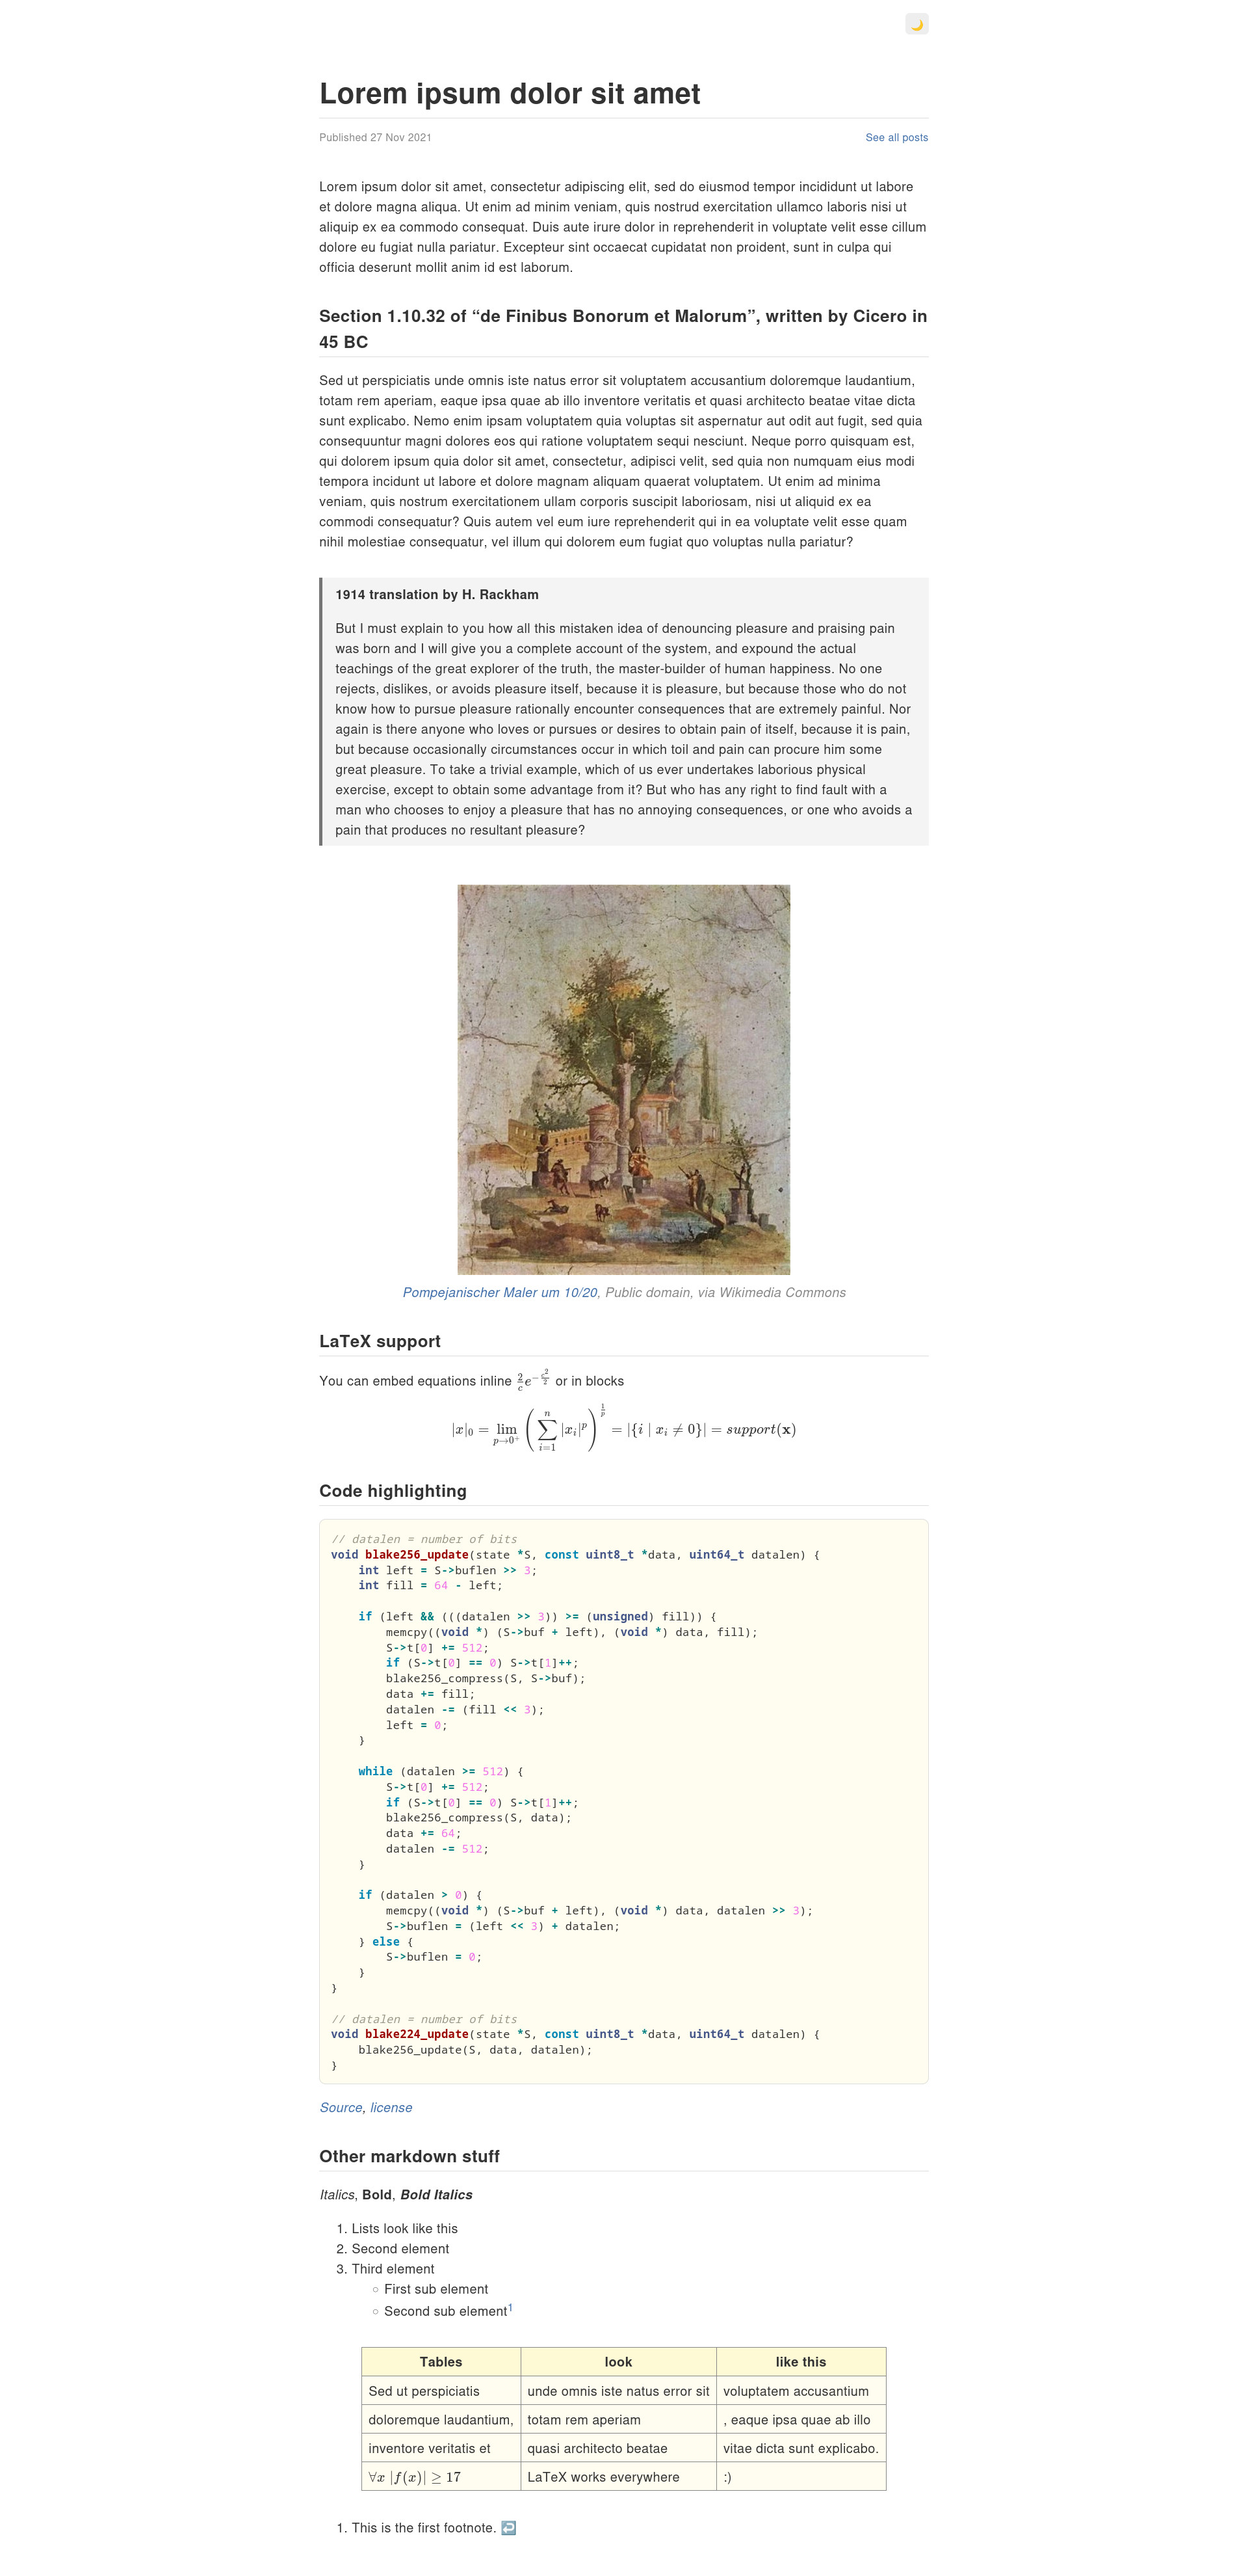
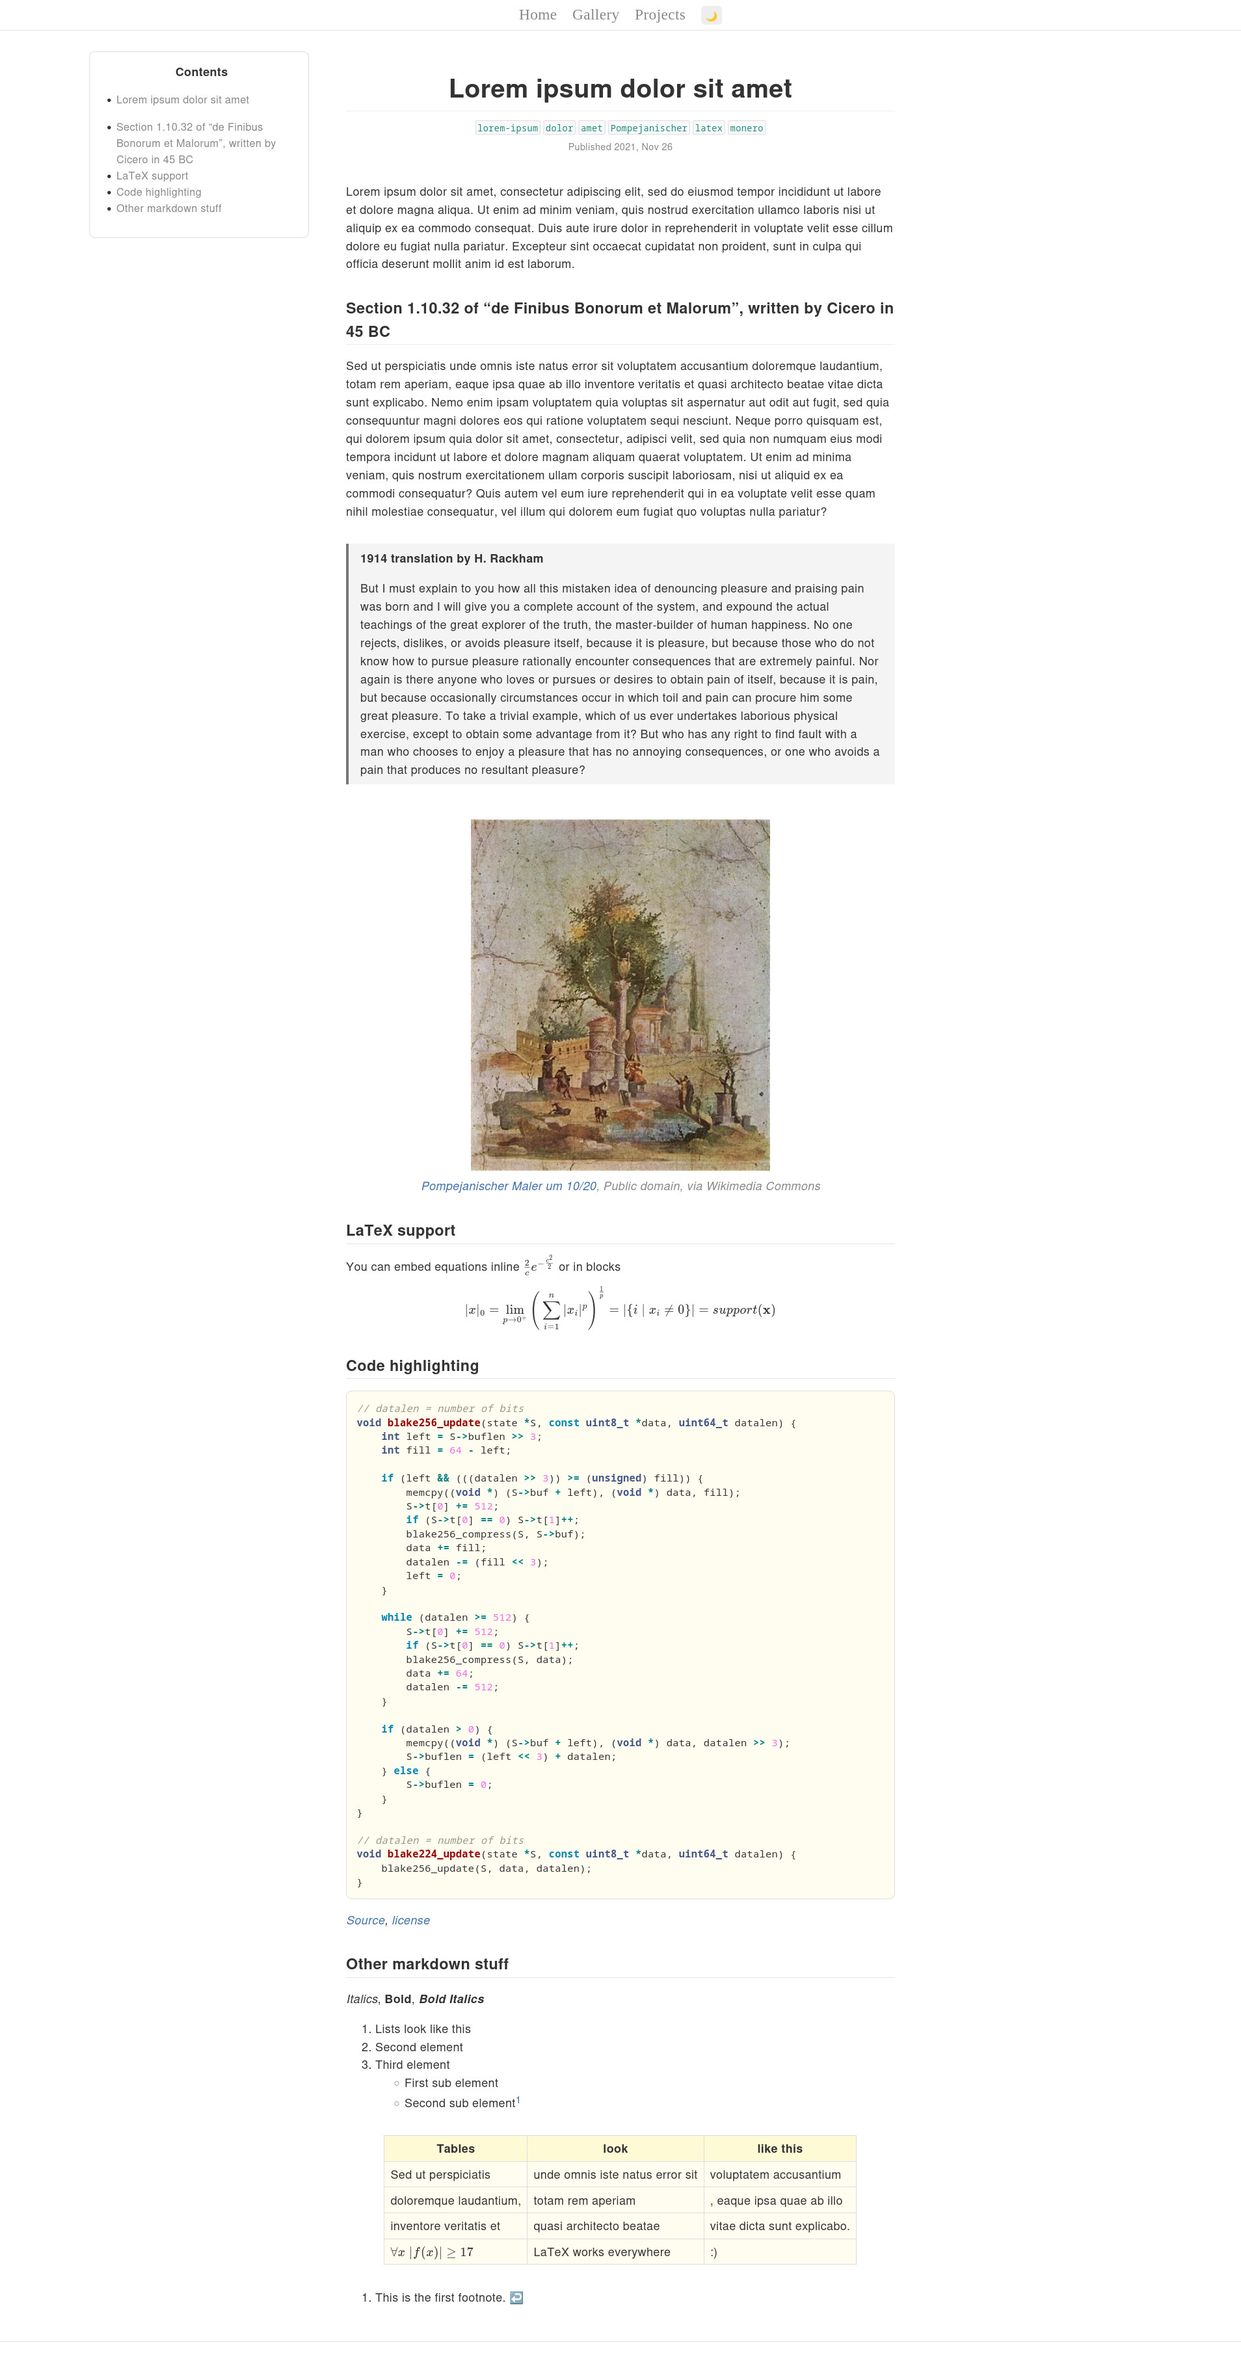
bump version, update images

diff --git a/_layouts/post.html b/_layouts/post.html
@@ -10,11 +10,11 @@ layout: default
 <div class="wrapper">
   <h1 class="page-title">{{ page.title }}</h1>
   <div class="page-details-inline">
-    <!-- <div class="page-tags">
+    <div class="page-tags">
       {% for tag in page.tags %}
         <code class="page-tag">{{ tag }}</code>
       {% endfor %}
-    </div> -->
+    </div>
     <div class="page-date">
       <div>
         Published
@@ -44,3 +44,4 @@ layout: default
   </main>
 </div>
 
+{% include navbar-bottom.html %}

diff --git a/_sass/malis/_layout.scss b/_sass/malis/_layout.scss
@@ -260,6 +260,7 @@
   .page-details-inline {
     user-select: none;
     display: block;
+    text-align: center;
     min-height: 1em;
     color: $grey-text;
     font-size: $small-font-size;
@@ -598,6 +599,7 @@
   .page-details-inline {
     user-select: none;
     display: block;
+    text-align: center;
     min-height: 1em;
     color: $grey-text-dark;
     font-size: $small-font-size-dark;

diff --git a/index.md b/index.md
@@ -6,8 +6,5 @@ excerpt: "Infinitifall's website"
 
 Welcome to my website
 
-- [Gallery](/gallery)
-- [Projects](https://github.com/Infinitifall)
-
 <img src='{{ "assets/images/gallery/24_dark.jpeg" | relative_url }}' alt="A fractal staircase arena" style="max-width:100%;">
 *`CTF_fractal` A fractal staircase arena*
